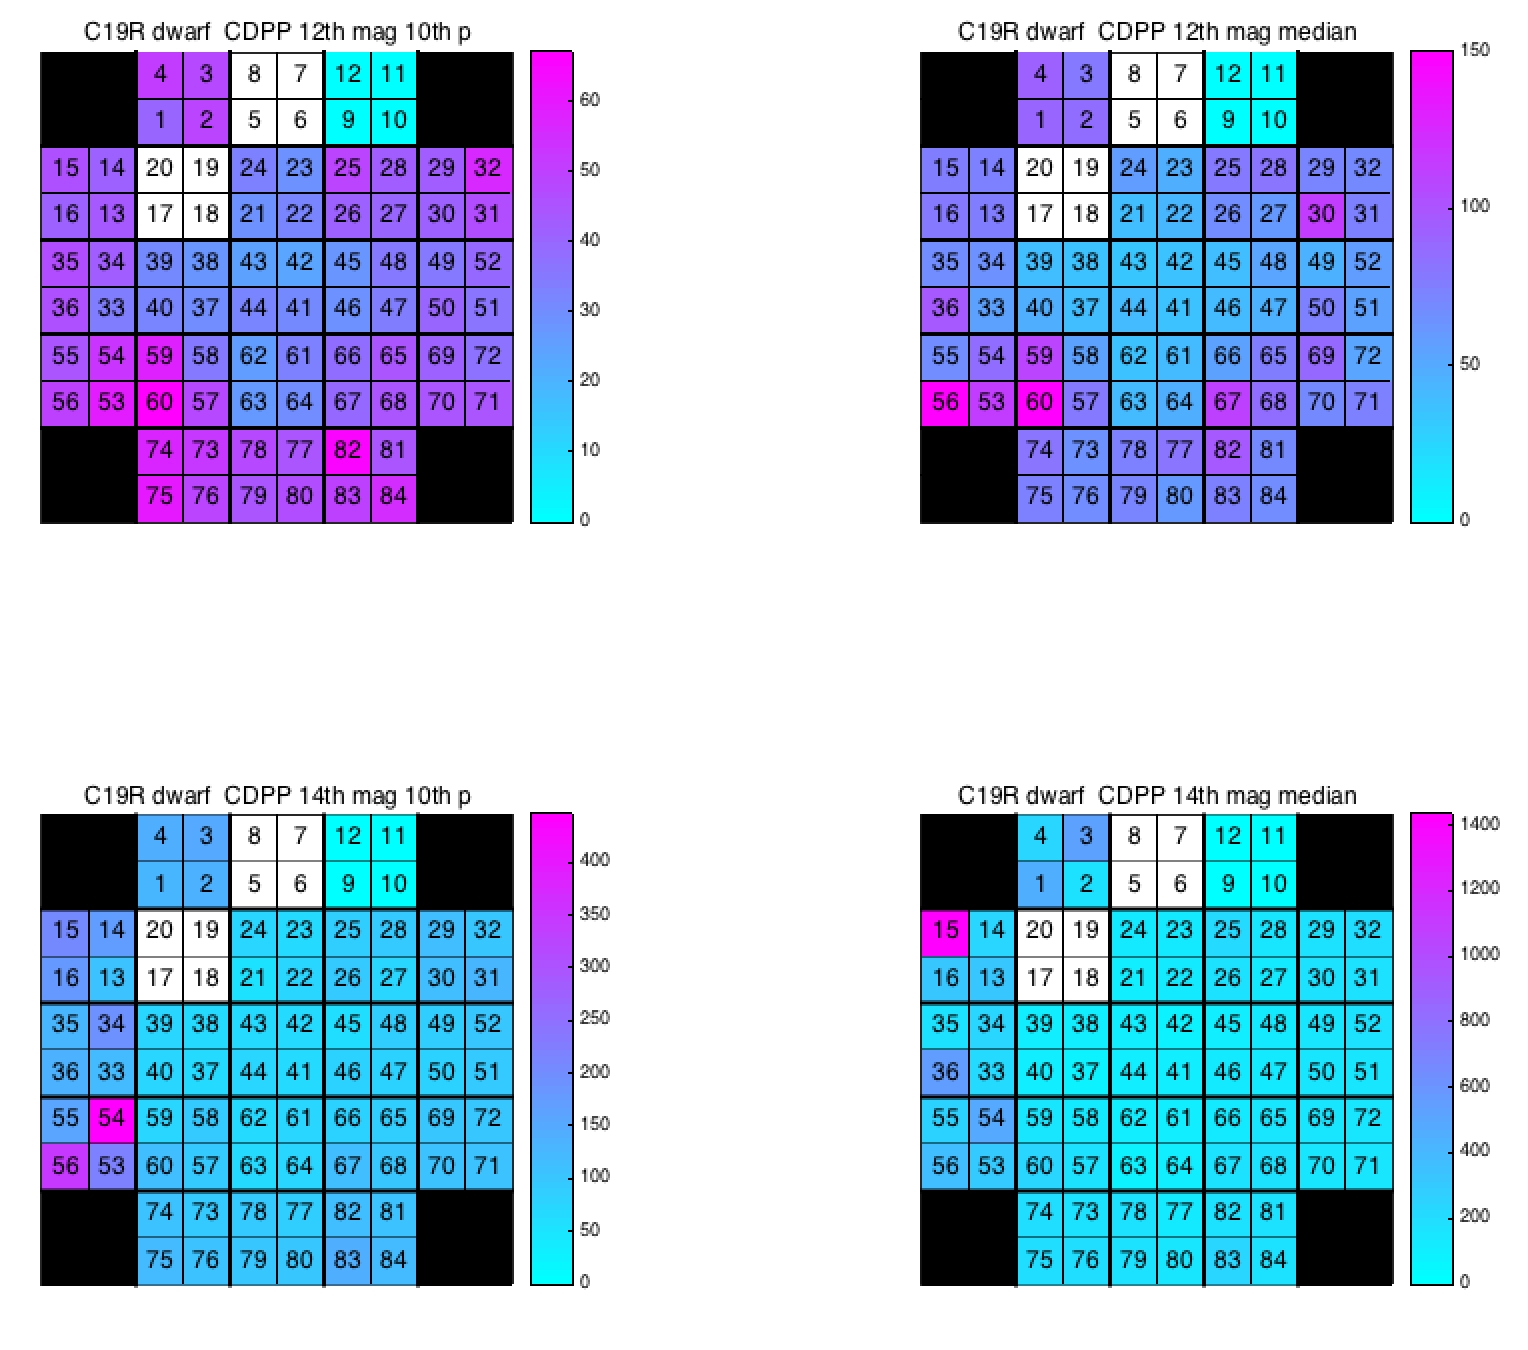
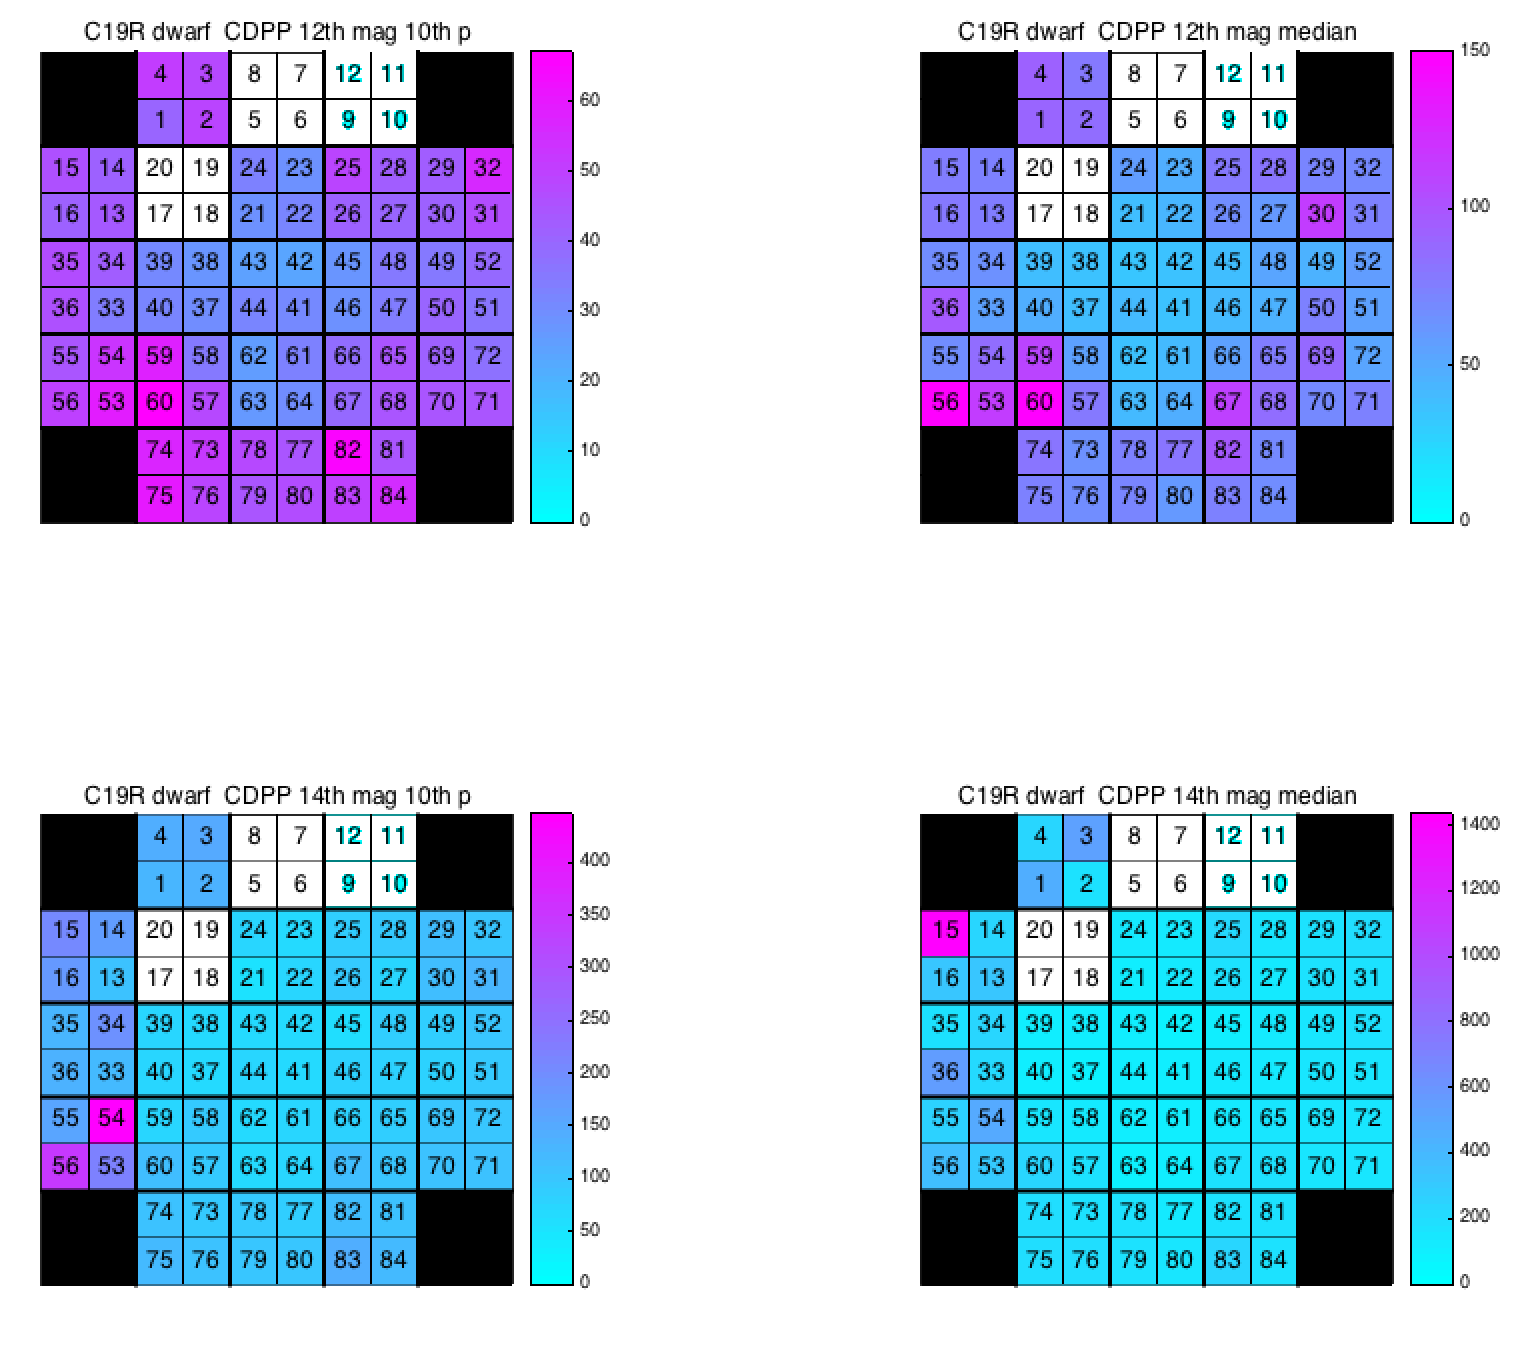
Minor wording clarification and fixed CDPP figure

diff --git a/content/pages/k2-observing/k2-data-release-notes.md b/content/pages/k2-observing/k2-data-release-notes.md
@@ -90,6 +90,8 @@ were selected.</i>
 
 <br>
 
+<br>
+
 <h2>Features and Events</h2>
 
 ***Overlap with C3, C12, and the Engineering Test Run***
@@ -114,9 +116,9 @@ See the <a href="images/release-notes/c19/kplr2018316185300_c19_caf.csv">csv fil
 
 Due to an anomalous drop in fuel pressure, the Kepler team [paused the science observations for K2 Campaign 18](kepler-fuel-status-update-faq.html) about 50 days into the campaign and then a month later [successfully downloaded the C18 data](k2-campaign-18-downlink-successful.html). At the start of Campaign 19 the spacecraft configuration was [modified in order to adapt to a change in thruster performance](k2-campaign-19-status-update.html) due to the low fuel pressure. Observations for C19 were collected for about a month, at which point the Kepler team received data showing that the spacecraft no longer had sufficient remaining fuel to point precisely enough to gather useful scientific data, and [observations were again paused](k2-campaign-19-ended-to-downlink-data.html) and then later [successfully downloaded](k2-campaign-19-raw-data-available.html). While [an attempt was made to start Campaign 20](kepler-spacecraft-update.html), without sufficient fuel [end-of-flight was declared the spacecraft retired](https://www.nasa.gov/press-release/nasa-retires-kepler-space-telescope-passes-planet-hunting-torch). Thus Campaign 19 is the final campaign for which scientific data is available.
 
-Figure C19-Pointing-1 shows the pointing performance of the spacecraft over the duration of Campaign 19 via the observed deviation of targets from their expected location as a function of long cadence number &mdash; the blue line shows the deviation affecting all targets from displacement of the spacecraft boresight, while the red line shows the maximum deviation at the edge of the field of view due to the roll angle. Figure C19-Pointing-2 similarly shows the combined motion of a target at the edge of the field of view in science pixels, as well as some important flags. Note that neither FFI was captured while in Fine Point and have noticeably different pointings (see Figure C19-FFI above).
+Figure C19-Pointing-1 shows the pointing performance of the spacecraft over the duration of Campaign 19 via the observed deviation of targets from their expected location as a function of long cadence number &mdash; the blue line shows the deviation affecting all targets from displacement of the spacecraft boresight, while the red line shows the maximum deviation at the edge of the field of view due to the roll angle. Figure C19-Pointing-2 similarly shows the combined motion of a target at the edge of the field of view in science pixels, as well as some important data quality flags. Note that neither FFI was captured while in Fine Point and have noticeably different pointings (see Figure C19-FFI above).
 
-As can be seen in these figures, for the first ~8.5 days, from long cadence 167333&ndash;167742 (short cadences 5008450&ndash;5020749), the spacecraft boresight was significantly off-nominal, and as a result nearly all targets were completely outside their observed pixel stamps, which had only 2- or 3-pixel halos &mdash; it is not expected that useable photometric data can be obtained for this time region for the pre-selected Campagin 19 targets. From long cadence 167743&ndash;168097 (short cadences 5020750&ndash;5031399) the pointing due to boresight and roll was nominal compared to other K2 campaigns, and thus this ~7 day region should provide nominal K2 data. From long cadence 168098&ndash;168623 (short cadence 5031400&ndash;5047179) the boresight and roll fluctuated erratically &mdash; the 'well-behaved' portions of this ~11 day should provide useable photometric data for most targets with careful analysis.
+As can be seen in these figures, for the first ~8.5 days (long cadences 167333&ndash;167742; short cadences 5008450&ndash;5020749), the spacecraft boresight was significantly off-nominal, and as a result nearly all targets were completely outside their observed pixel stamps, which had only 2- or 3-pixel halos &mdash; it is not expected that useable photometric data can be obtained for this time region for the pre-selected Campagin 19 targets. For the next ~7 days (long cadences 167743&ndash;168097; short cadences 5020750&ndash;5031399) the pointing due to boresight and roll was nominal compared to other K2 campaigns, and thus this ~7 day region should provide K2 data of quality comparable to other campaigns. For the final ~11 days (long cadences 168098&ndash;168623; short cadences 5031400&ndash;5047179) the boresight and roll fluctuated erratically &mdash; the 'well-behaved' portions of this timespan should provide useable photometric data for most targets, though careful analysis is encouraged.
 
 
 <div class="thumbnail" style="width: 100%;">
@@ -147,7 +149,7 @@ Examining only the central ~7 days of continuously nominal pointing (long cadenc
 
 <div class="thumbnail" style="width: 49%;display: inline-block;">
 <div class="caption">
-<i>Figure C19-Roll-Error: the roll-error between the photometrically derived attitude (PAD) and the nominal pointing plotted against time for C19.</i>
+<i>Figure C19-Roll-Error: the roll-error between the photometrically derived attitude (PAD) and the nominal pointing plotted against time for the central ~7 days of C19.</i>
 <a href="images/release-notes/c19/c19_pad_pdq_attitude_roll.png">
 <img src="images/release-notes/c19/c19_pad_pdq_attitude_roll.png" class="img-responsive" alt="Pipeline measured roll error for C19.">
 </a>
@@ -156,7 +158,7 @@ Examining only the central ~7 days of continuously nominal pointing (long cadenc
 
 <div class="thumbnail" style="width: 49%;display: inline-block;">
 <div class="caption">
-<i>Figure C19-MAR: the maximum distance between the photometrically derived attitude (PAD) and the nominal position plotted against time for C19.</i>
+<i>Figure C19-MAR: the maximum distance between the photometrically derived attitude (PAD) and the nominal position plotted against time for the central ~7 days C19.</i>
 <a href="images/release-notes/c19/c19_pad_pdq_attitude_mar.png">
 <img src="images/release-notes/c19/c19_pad_pdq_attitude_mar.png" class="img-responsive" alt="Maximum residual of the C19 attitude measured with PAD and PDQ.">
 </a>
@@ -176,17 +178,24 @@ In order to successfully process this unique campaign with the Kepler pipeline, 
 
 <li> The final long cadence observed by the spacecraft (168624) and the corresponding short cadences (5047180&ndash;5047209) were discarded due to data quality issues.<br>
 
+<br>
+
 <li> For the rest of the campaign (long cadences 167333&ndash;168623 and short cadences 5008450&ndash;5047179), instead of the "Dynablack" calibration method that has been used for all other campaigns processed as part of the <a href="k2-uniform-global-reprocessing-underway.html">global uniform reprocessing effort</a>, the simpler CAL method was used to calibrate pixels, due to the short duration of the observations. Rolling band flags (see the <a href="k2-uniform-global-reprocessing-underway.html">news post on global reprocessing</a>) were still able to be computed and provided.<br>
+
+<br>
 
 <li> When producing the raw / simple aperture (PA) lightcurves, unlike all other campaigns processed as part of the <a href="k2-uniform-global-reprocessing-underway.html">global uniform reprocessing effort</a>, cadences marked as "Spacecraft is not in fine point" (QUALITY flag bit #16, decimal=32768) were discarded. This is illustrated in Figure C19-Pointing-2.<br>
 
+<br>
+
 <li> When producing the systematic-corrected (PDC) lightcurves, the cadence range was restricted to the central ~7 days of continuously stable pointing (long cadences 167743&ndash;168097 and short cadences 5020750&ndash;5031399). This is illustrated in Figure C19-Pointing-1. The corresponding time range is 2018-09-08 00:24:52 UTC to 2018-09-15 06:32:00 UTC.<br>
+
 
 </ul>
 
-As a result, users will have calibrated pixels for nearly the entire campaign, raw / simple aperture lightcurves (PA or SAP_FLUX) for the last ~2/3 of the campaign during times when the spacecraft was in fine point, and systematic-corrected lightcurves (PDC or PDCSAP_FLUX) for the central ~7 days of continuously good pointing.
+As a result, users will have calibrated pixels for nearly the entire campaign, raw / simple aperture lightcurves (called PA or SAP_FLUX) for the last ~2/3 of the campaign during times when the spacecraft was in fine point, and systematic-corrected lightcurves (called PDC or PDCSAP_FLUX) for the central ~7 days of continuously good pointing.
 
-Users producing their own lightcurves will likely want to make use of the "Spacecraft is not in fine point" (QUALITY flag bit #16, decimal=32768) and/or "Spacecraft is in coarse point" (QUALITY flag bit #3, decimal=4) to remove cadences with significant pointing deviations from nominal, while accounting for the location of their target on the focal plane (and thus observed motion due to spacecraft roll) and aperture size.
+Users producing their own lightcurves will likely want to make use of the "Spacecraft is not in fine point" (QUALITY flag bit #16, decimal=32768) and "Spacecraft is in coarse point" (QUALITY flag bit #3, decimal=4) to remove cadences with significant pointing deviations from nominal, while accounting for the location of their target on the focal plane (and thus observed motion due to spacecraft roll) and aperture size.
 
 <br>
 
@@ -194,9 +203,9 @@ Users producing their own lightcurves will likely want to make use of the "Space
 ***Light Curve Quality***
 
 Examining only the central ~7 days of continuously nominal pointing (long cadences 167743&ndash;168097; short cadences 5020750&ndash;5031399), the 6-hour spacecraft roll cycle dominates the systematic errors in the C19 simple aperture photometry light curves, similar to other campaigns.
-The pipeline CDPP 12th magnitude noise benchmark for C19 is technically the lowest of any campaign observed to-date &mdash; however, it is not necessarily correct to compare it to other campaigns, as there is only ~7 days of data analyzed here, compared to other campaigns that normally have ~50&ndash;80 days. It is likely that the PDC module is over-fitting the data to some extent. Users are cautioned that astrophysical variations, particularly those of long (~several days or more) period may be artificially suppressed in the PDCSAP_FLUX data. Users can examine the cotrending basis vectors to check and see if they contain data trends that resemble astrophysical signals of interest.
+The pipeline CDPP 12th magnitude noise benchmark for C19 is technically the lowest of any campaign observed to-date &mdash; however, it is not necessarily correct to compare it to other campaigns, as there is only ~7 days of data analyzed here, compared to other campaigns that normally have ~50&ndash;80 days. It is likely that the PDC module is over-fitting the data to some extent. Users are cautioned that astrophysical variations, particularly those of long (~several days or more) period may be artificially suppressed in the PDCSAP_FLUX data. Users can examine the C19 [cotrending basis vectors](https://archive.stsci.edu/missions/k2/cbv/) to check and see if they contain data trends that resemble astrophysical signals of interest.
 
-The magnitude dependence of CDPP for the central ~7 days, and its distribution over the focal plane, are shown below. Other CDPP benchmarks can be found in the
+The magnitude dependence of CDPP for the central ~7 days, and its distribution over the focal plane, are shown below in Figure C19-CDPP. Other CDPP benchmarks can be found in the
 <a href="images/release-notes/c19/c19_bin1.00_sc1.00_CDPP_Summary_19040216.txt">
 table giving 6.5-hr CDPP as a function of magnitude.</a>
 
